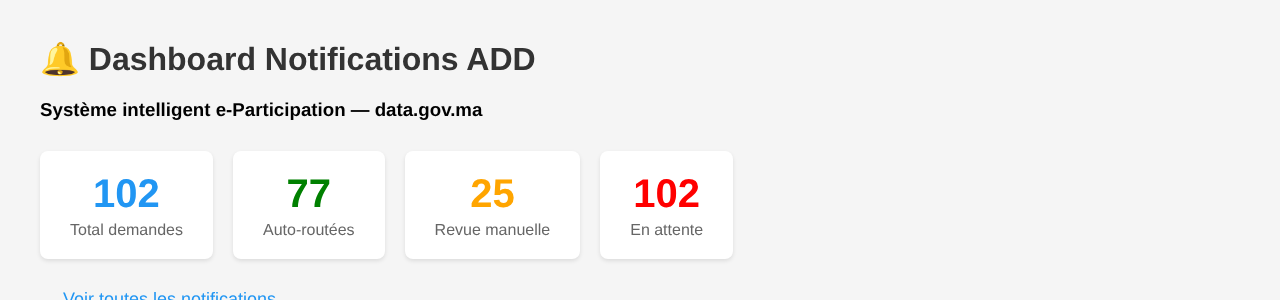
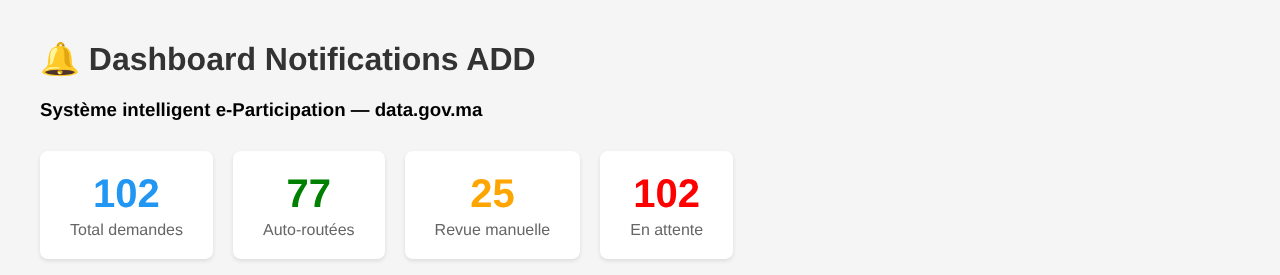
README: tidy dashboard screenshot and run instructions

diff --git a/README.md b/README.md
@@ -26,7 +26,7 @@ data.gov.ma (CKAN API + feedback pages)
                                                │
                      build_notifications.py ──► notifications.db (SQLite)
                                                │
-                                app.py ──► Flask dashboard (localhost:5000)
+                                app.py ──► Flask dashboard
 ```
 
 - **Lexical matching:** TF-IDF vectors of the request vs. each organisation's profile (name, description, dataset keywords)
@@ -56,7 +56,7 @@ Evaluation details: `evaluation.py`, `feedbacks_eval.csv` (labels), `rapport_eva
 pip install -r requirements.txt
 
 # Dashboard with the included results
-python app.py                      # → http://127.0.0.1:5000
+python app.py                      # then open the address shown in the terminal
 
 # Full pipeline (needs internet: data.gov.ma + model download on first run)
 python extract_organisations.py
